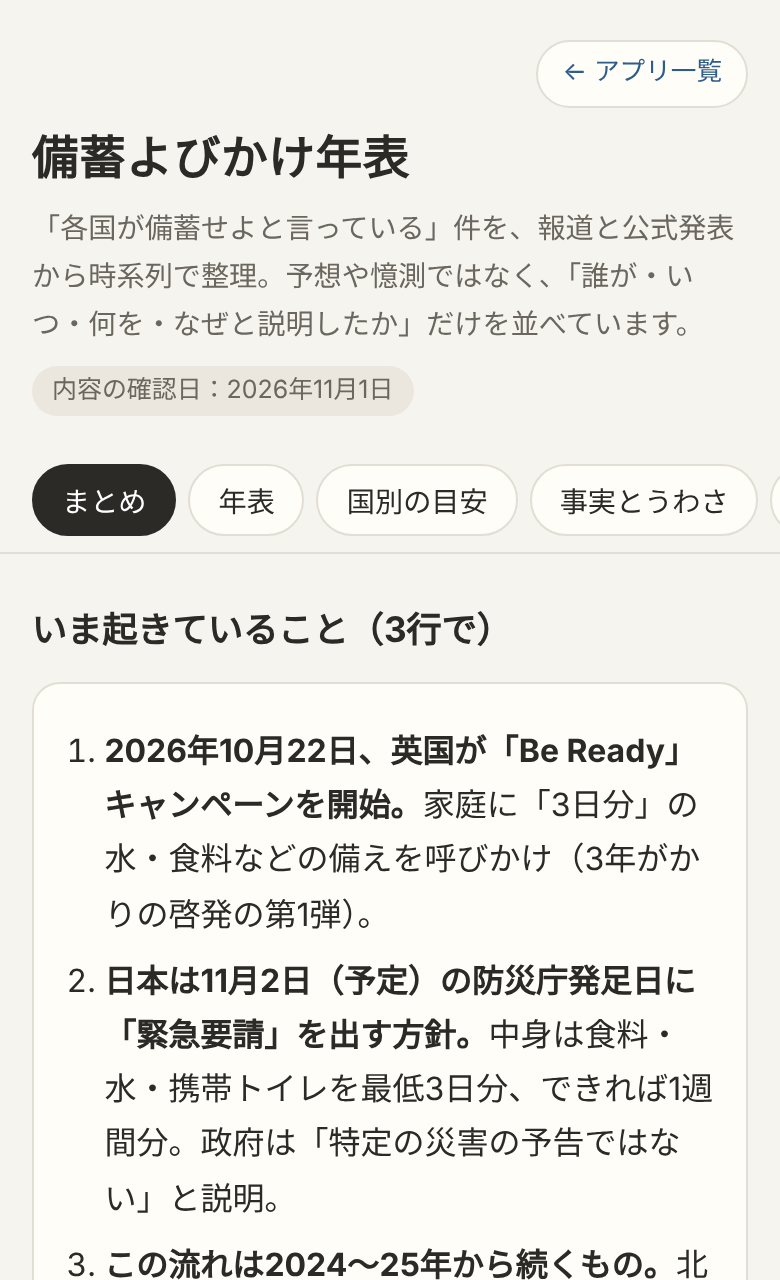
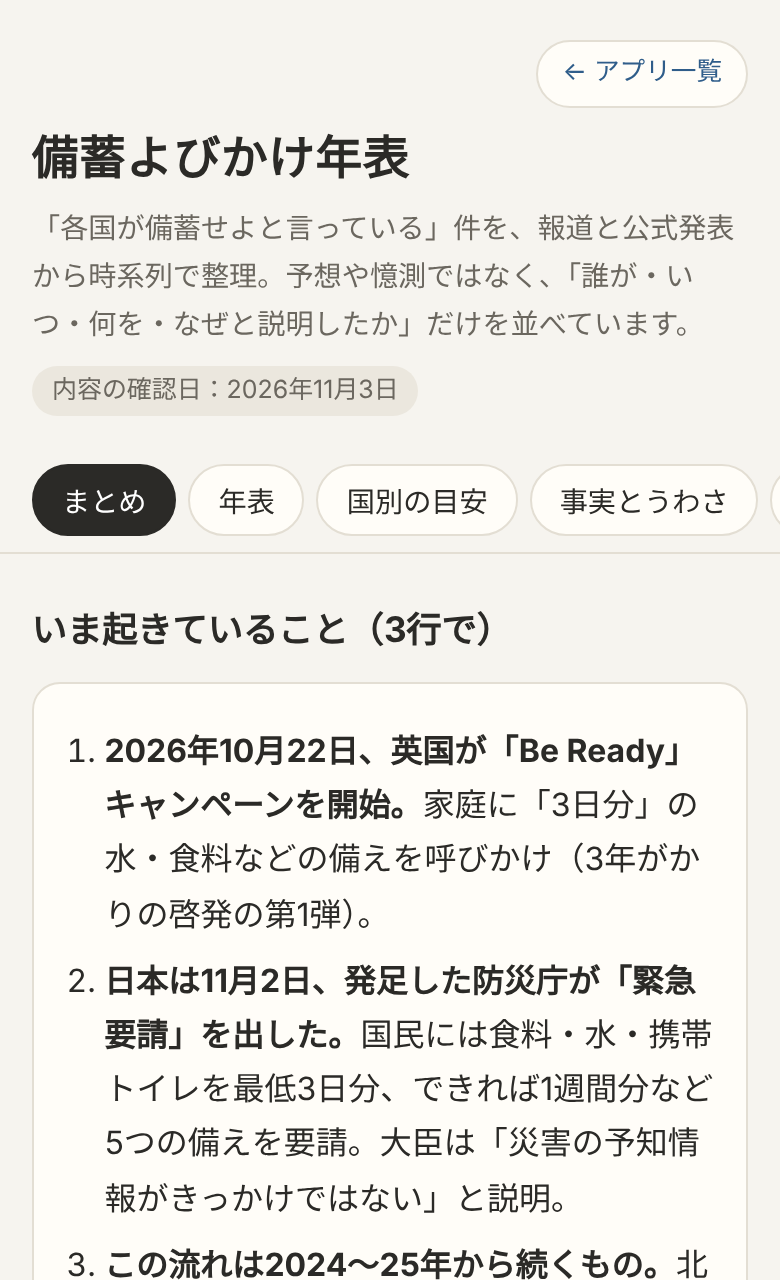
備蓄よびかけ年表：11月2日の防災庁の緊急要請を反映
「予定」だった項目を、実際に出た要請の中身（国民向け5項目など）に更新。
10月29日の細野大臣の説明も追加し、確認日を11月3日に。

Claude-Session: https://claude.ai/code/session_016FBJxgVt9VmK9Vgqy5u42j

Changed region(s): [[0.1231, 0.75, 0.9231, 0.9688], [0.4615, 0.2812, 0.5231, 0.3125]]

diff --git a/bichiku-nenpyo/index.html b/bichiku-nenpyo/index.html
@@ -117,7 +117,7 @@
     <div class="topbar"><a class="home" href="../">← アプリ一覧</a></div>
     <h1>備蓄よびかけ年表</h1>
     <p>「各国が備蓄せよと言っている」件を、報道と公式発表から時系列で整理。予想や憶測ではなく、「誰が・いつ・何を・なぜと説明したか」だけを並べています。</p>
-    <span class="updated">内容の確認日：2026年11月1日</span>
+    <span class="updated">内容の確認日：2026年11月3日</span>
   </header>
 
   <nav class="tabs" id="tabs">
@@ -134,7 +134,7 @@
     <div class="box">
       <ol class="lead">
         <li><b>2026年10月22日、英国が「Be Ready」キャンペーンを開始。</b>家庭に「3日分」の水・食料などの備えを呼びかけ（3年がかりの啓発の第1弾）。</li>
-        <li><b>日本は11月2日（予定）の防災庁発足日に「緊急要請」を出す方針。</b>中身は食料・水・携帯トイレを最低3日分、できれば1週間分。政府は「特定の災害の予告ではない」と説明。</li>
+        <li><b>日本は11月2日、発足した防災庁が「緊急要請」を出した。</b>国民には食料・水・携帯トイレを最低3日分、できれば1週間分など5つの備えを要請。大臣は「災害の予知情報がきっかけではない」と説明。</li>
         <li><b>この流れは2024〜25年から続くもの。</b>北欧の冊子（2024年）、EUの「72時間」戦略（2025年3月）、フランス・台湾・ポーランドの手引き配布など、各国が順番に同じ方向の発信をしてきた。</li>
       </ol>
     </div>
@@ -192,7 +192,7 @@
     <h2>国・地域ごとの「家庭の備え」目安</h2>
     <p class="muted" style="margin-top:0">バーの長さは日数（右端＝10日）。濃い色が「最低限」、薄い色が「できれば」の分です。</p>
     <div class="cgrid">
-      <div class="cc"><div class="ch"><span class="cf">🇯🇵</span><span class="cn">日本</span><span class="cb d3">3日〜1週間</span></div><div class="dbar"><span class="lo" style="width:30%"></span><span class="hi" style="width:40%"></span></div><p class="cd">最低3日、できれば1週間。水は1人1日3L</p><p class="cs">防災庁の緊急要請（2026年11月2日予定）</p></div>
+      <div class="cc"><div class="ch"><span class="cf">🇯🇵</span><span class="cn">日本</span><span class="cb d3">3日〜1週間</span></div><div class="dbar"><span class="lo" style="width:30%"></span><span class="hi" style="width:40%"></span></div><p class="cd">最低3日、できれば1週間。水は1人1日3L</p><p class="cs">防災庁の緊急要請（2026年11月2日）</p></div>
       <div class="cc"><div class="ch"><span class="cf">🇬🇧</span><span class="cn">英国</span><span class="cb d3">3日</span></div><div class="dbar"><span class="lo" style="width:30%"></span><span class="hi" style="width:0%"></span></div><p class="cd">水は1人1日3L（3日で9L）</p><p class="cs">「Be Ready」（2026年10月22日〜）</p></div>
       <div class="cc"><div class="ch"><span class="cf">🇪🇺</span><span class="cn">EU</span><span class="cb d3">72時間</span></div><div class="dbar"><span class="lo" style="width:30%"></span><span class="hi" style="width:0%"></span></div><p class="cd">何を備えるかは各国が決める</p><p class="cs">備えの連合戦略（2025年3月26日）</p></div>
       <div class="cc"><div class="ch"><span class="cf">🇫🇷</span><span class="cn">フランス</span><span class="cb d3">72時間</span></div><div class="dbar"><span class="lo" style="width:30%"></span><span class="hi" style="width:0%"></span></div><p class="cd">水・保存食・薬・ラジオ・現金など</p><p class="cs">手引き「Tous responsables」（2025年11月20日）</p></div>
@@ -226,7 +226,7 @@
       </div>
       <div class="box">
         <div class="q"><span class="badge-r">うわさ</span>日本の「緊急要請」は第三次世界大戦や大地震の前触れ？</div>
-        <div class="ans"><span class="badge-f">確認できる事実</span>11月2日は防災庁の発足日で、その日付は9月の会見で発表済み。大臣は「自助の部分は国民に要請する」と説明し、特定の災害を予告するものではないと報じられている。対象は国民だけでなく、都道府県・各省庁にも備えの強化を求める枠組み。</div>
+        <div class="ans"><span class="badge-f">確認できる事実</span>11月2日は防災庁の発足日で、その日付は9月の会見で発表済み。細野大臣は10月29日にXで「地震などの災害の予知情報が入っていることを契機とするものではない」と説明し、11月2日に要請を出した。対象は国民だけでなく、都道府県・各省庁にも備えの強化を求める枠組み。<br><br>「最低3日、できれば1週間」という目安も新しいものではなく、2026年版の防災白書や農林水産省がこれまでも勧めてきたもの。<br><span class="muted">出典：<a href="https://note.com/sonaeareba/n/nf46dc6e5a0d9" target="_blank" rel="noopener">SONAEAREBA（J-CAST報道を引用）</a> <a href="https://www.excite.co.jp/news/article/shueishaonline_259028/" target="_blank" rel="noopener">集英社オンライン</a> <a href="https://www.gizmodo.jp/article/japan-government-emergency-stockpile-request/" target="_blank" rel="noopener">ギズモード</a></span></div>
       </div>
       <div class="box">
         <div class="q"><span class="badge-r">うわさ</span>英国が急に備蓄を言い出したのは、何か情報をつかんだから？</div>
@@ -278,14 +278,21 @@
       <p>日本・英国・ドイツとも勧めているのは「ふだん使う物を少し多めに持ち、使ったら買い足す」やり方（ローリングストック）。一度に大量に買う必要はなく、急な買い占めはかえって品薄を生みます。</p>
     </div>
     <div class="box">
-      <h3>5. 3日分の目安（日本の呼びかけベース）</h3>
-      <p>水：1人1日3L × 3日 ＝ 9L／食料：1人9食分／携帯トイレ：家族の人数×回数分。できれば1週間分へ少しずつ。</p>
-      <p class="muted">正式な文言は11月2日の発表後に防災庁・内閣府の発表で確認してください。</p>
+      <h3>5. 日本の緊急要請で求められたこと</h3>
+      <ol class="lead">
+        <li>家の耐震診断・耐震化、家具の固定（寝室だけの補強でも）</li>
+        <li>水・食料・携帯トイレなどを最低3日、できれば1週間分（水は1人1日3L）</li>
+        <li>ハザードマップで自宅や職場のリスク、避難場所・避難経路を確認</li>
+        <li>非常持ち出し品をリュックなどにまとめ、玄関近くに</li>
+        <li>防災訓練に参加し、近所と協力できる関係をつくる</li>
+      </ol>
+      <p>3日分の目安は、水：1人9L／食料：1人9食分／携帯トイレ：家族の人数×回数分。できれば1週間分へ少しずつ。</p>
+      <p class="muted">出典：<a href="https://news.livedoor.com/article/detail/32710892/" target="_blank" rel="noopener">FNNプライムオンライン（全文掲載）</a></p>
     </div>
   </section>
 
   <footer>
-    出典は各項目のリンク先（報道・公的機関）。内容は2026年11月1日時点の確認です。<br>
+    出典は各項目のリンク先（報道・公的機関）。内容は2026年11月3日時点の確認です。<br>
     地図データ：Natural Earth（パブリックドメイン）<br>
     作成：ロックポッポ（<a href="https://x.com/rockpoppocom">@rockpoppocom</a>）
   </footer>
@@ -390,17 +397,21 @@ const EV = [
  {d:"2026-10-28", y:2026, r:"jp", k:"ctx", t:"日本：SNSで「戦争の前触れ」などの憶測→政府は防災庁発足に合わせた呼びかけと説明",
   p:"同日、細野大臣が高市首相に準備状況を報告。要請は国民・都道府県・各省庁の3方向で、年内をめどに対応状況を確認する考え。首相は避難所の環境改善（早くベッドで休める等）を指示。",
   s:[["KAB熊本朝日放送","https://www.kab.co.jp/news/article/17001383"],["IBTimes UK","https://www.ibtimes.co.uk/japan-plans-emergency-request-three-day-food-water-stockpiles-amid-reports-online-war-1828362"]]},
- {d:"2026-11-02", y:2026, r:"jp", k:"home", plan:true, t:"【予定】日本：防災庁発足・初日に「緊急要請」",
-  p:"正式な文言は発表後に確認が必要。この項目は発表後に更新予定。",
-  s:[["KAB熊本朝日放送","https://www.kab.co.jp/news/article/17001383"]]}
+ {d:"2026-10-29", y:2026, r:"jp", k:"ctx", t:"日本：細野大臣がXで「予知情報がきっかけではない」と説明",
+  p:"緊急要請について「地震などの災害の予知情報が入っていることを契機とするものではない。防災庁発足に伴う事前防災徹底のための緊急要請」と投稿。",
+  s:[["SONAEAREBA（J-CAST報道を引用）","https://note.com/sonaeareba/n/nf46dc6e5a0d9"]]},
+ {d:"2026-11-02", y:2026, r:"jp", k:"home", t:"日本：防災庁が発足、初日に「事前防災徹底のための緊急要請」",
+  p:"初代防災大臣の細野氏が、国民に5つの備えを要請。①家の耐震化・家具の固定 ②水・食料・携帯トイレを最低3日、できれば1週間分 ③ハザードマップと避難経路の確認 ④非常持ち出し品の準備 ⑤防災訓練への参加。都道府県には避難生活環境の改善や災害協定の点検、各府省には業務継続計画（BCP）の見直しを求め、年末までに進み具合を報告させる。",
+  w:"国難級の災害では公的な支援がすぐには届かない場合があるため、「自らの命は自らが守る」事前防災を徹底する狙い。各府省の取り組みが不十分なら、防災庁の「勧告権」を使う方針。",
+  s:[["FNNプライムオンライン（全文掲載）","https://news.livedoor.com/article/detail/32710892/"],["ビジネス+IT","https://news.yahoo.co.jp/articles/fef37ea8f61759c4cefd64eaf0399acf28e91c2d"]]}
 ];
 
 // 各イベントに関係する国（world-atlasの国番号。"EU"はEU全体）
-const CT = [["578"],["208"],["752","246"],["528"],["EU"],["EU"],["752"],["276"],["158"],["250"],["616"],[],["634"],["392"],[],["392"],["752"],["826"],["826"],["392"],["392"],["826","528","246","250"],["826"],["826"],["826"],["392"],["392"],["392"]];
+const CT = [["578"],["208"],["752","246"],["528"],["EU"],["EU"],["752"],["276"],["158"],["250"],["616"],[],["634"],["392"],[],["392"],["752"],["826"],["826"],["392"],["392"],["826","528","246","250"],["826"],["826"],["826"],["392"],["392"],["392"],["392"]];
 EV.forEach((e,i)=>e.c=CT[i]||[]);
 
 const COUNTRY = {
-  "392":{n:"日本",s:"home",stock:true,note:"防災庁の緊急要請（11月2日予定）：最低3日、できれば1週間。石油備蓄の放出やアジアの共同備蓄づくりも。"},
+  "392":{n:"日本",s:"home",stock:true,note:"防災庁の緊急要請（2026年11月2日）：最低3日、できれば1週間。石油備蓄の放出やアジアの共同備蓄づくりも。"},
   "826":{n:"英国",s:"home",note:"「Be Ready」（2026年10月22日〜）：3日分の備え。3年がかりの啓発。"},
   "578":{n:"ノルウェー",s:"home",note:"全世帯に冊子（2024年）：1週間分の備え。"},
   "208":{n:"デンマーク",s:"home",note:"冊子とメール（2024年）：3日分の備え。"},
